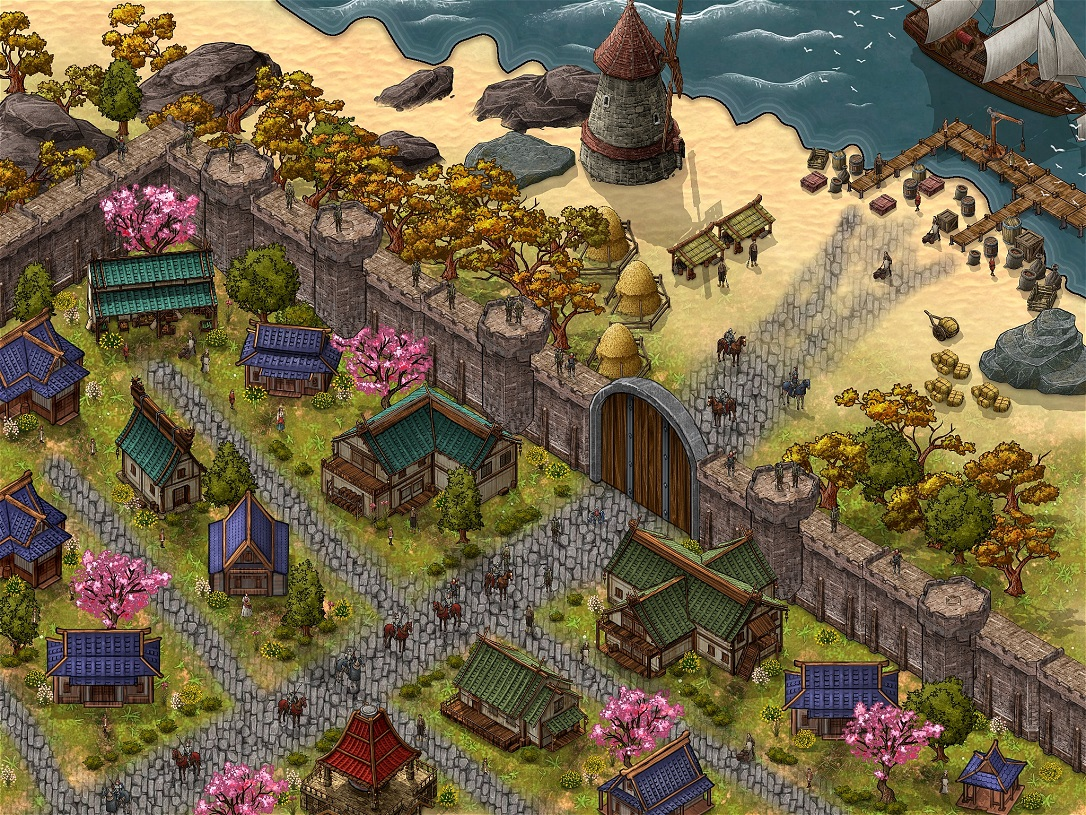
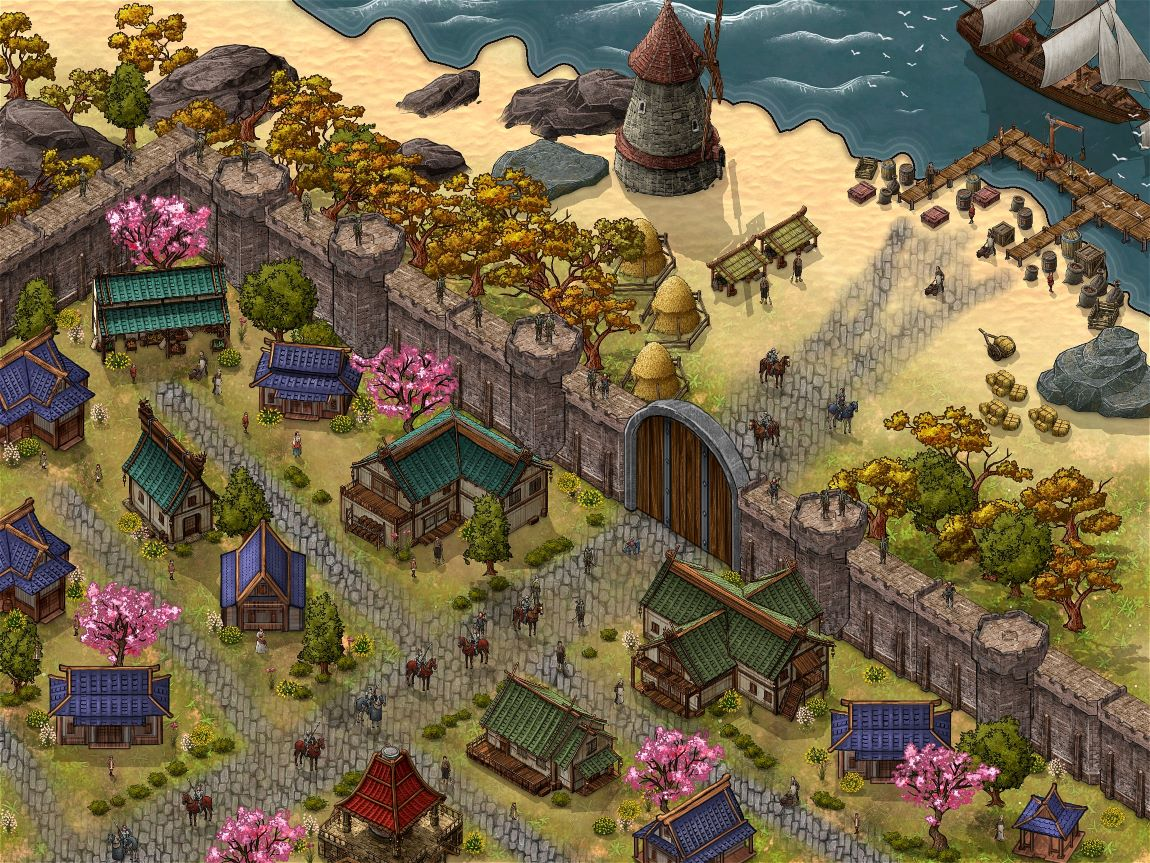
more maps and clicks

diff --git a/src/App.js b/src/App.js
@@ -13,6 +13,7 @@ import { FaunalynFountain } from "./pages/Faunalyn/FaunalynFountain/FaunalynFoun
 import { Gamos } from "./pages/Gamos/Gamos";
 import { GamosSouth } from "./pages/Gamos/GamosSouth/GamosSouth";
 import { NurmockCenter } from "./pages/Nurmock/NurmockCenter/NurmockCenter";
+import { Okan } from "./pages/Okan/Okan";
 
 function App() {
   return (
@@ -32,6 +33,7 @@ function App() {
             <Route path="/gamos-map" element={<Gamos />} />
             <Route path="/gamosSouth-map" element={<GamosSouth />} />
             <Route path="/nurmockCenter-map" element={<NurmockCenter />} />
+            <Route path="/okan-map" element={<Okan />} />
           </Routes>
         </div>
       </WalletContext>

diff --git a/src/pages/Okan/Okan.js b/src/pages/Okan/Okan.js
@@ -1,0 +1,29 @@
+import React from "react";
+import { useNavigate } from "react-router-dom";
+import "./Okan.css";
+//import { Link } from "react-router-dom";
+
+export const Okan = () => {
+  const history = useNavigate();
+  const goBack = () => {
+    history("/world-map");
+  };
+  return (
+    <div className="mapOkan">
+      <div
+        style={{
+          position: "fixed",
+          top: -5,
+          left: 15,
+          fontSize: 48,
+          cursor: "pointer",
+        }}
+        onClick={goBack}
+      >
+        «
+      </div>
+
+      <img className="okan" src={"Okan.jpg"}></img>
+    </div>
+  );
+};

diff --git a/src/pages/WorldMap/WorldMap.js b/src/pages/WorldMap/WorldMap.js
@@ -27,7 +27,8 @@ export const WorldMap = () => {
         <Link to="/gamos-map" className="gamosClickTarget" />
 
         <Link to="/faunalyn-map" className="faunalynClickTarget" />
-        <div className="okanClickTarget" />
+        <Link to="/okan-map" className="okanClickTarget" />
+
         <Link to="/mistLands-map" className="mistLandsClickTarget" />
         <Link to="/nurmock-map" className="nurmockClickTarget" />
         <img src={"map1.png"}></img>

diff --git a/src/pages/Okan/Okan.css b/src/pages/Okan/Okan.css
@@ -1,0 +1,14 @@
+.mapOkan {
+  display: flex;
+  align-items: center;
+  justify-content: center;
+  background-image: url("parchment.jpg");
+  background-repeat: no-repeat; /* Do not repeat the image */
+  background-size: cover; /* Resize the background image to cover the entire container */
+  height: 100%;
+  width: 100%;
+}
+
+.okan {
+  position: relative;
+}
